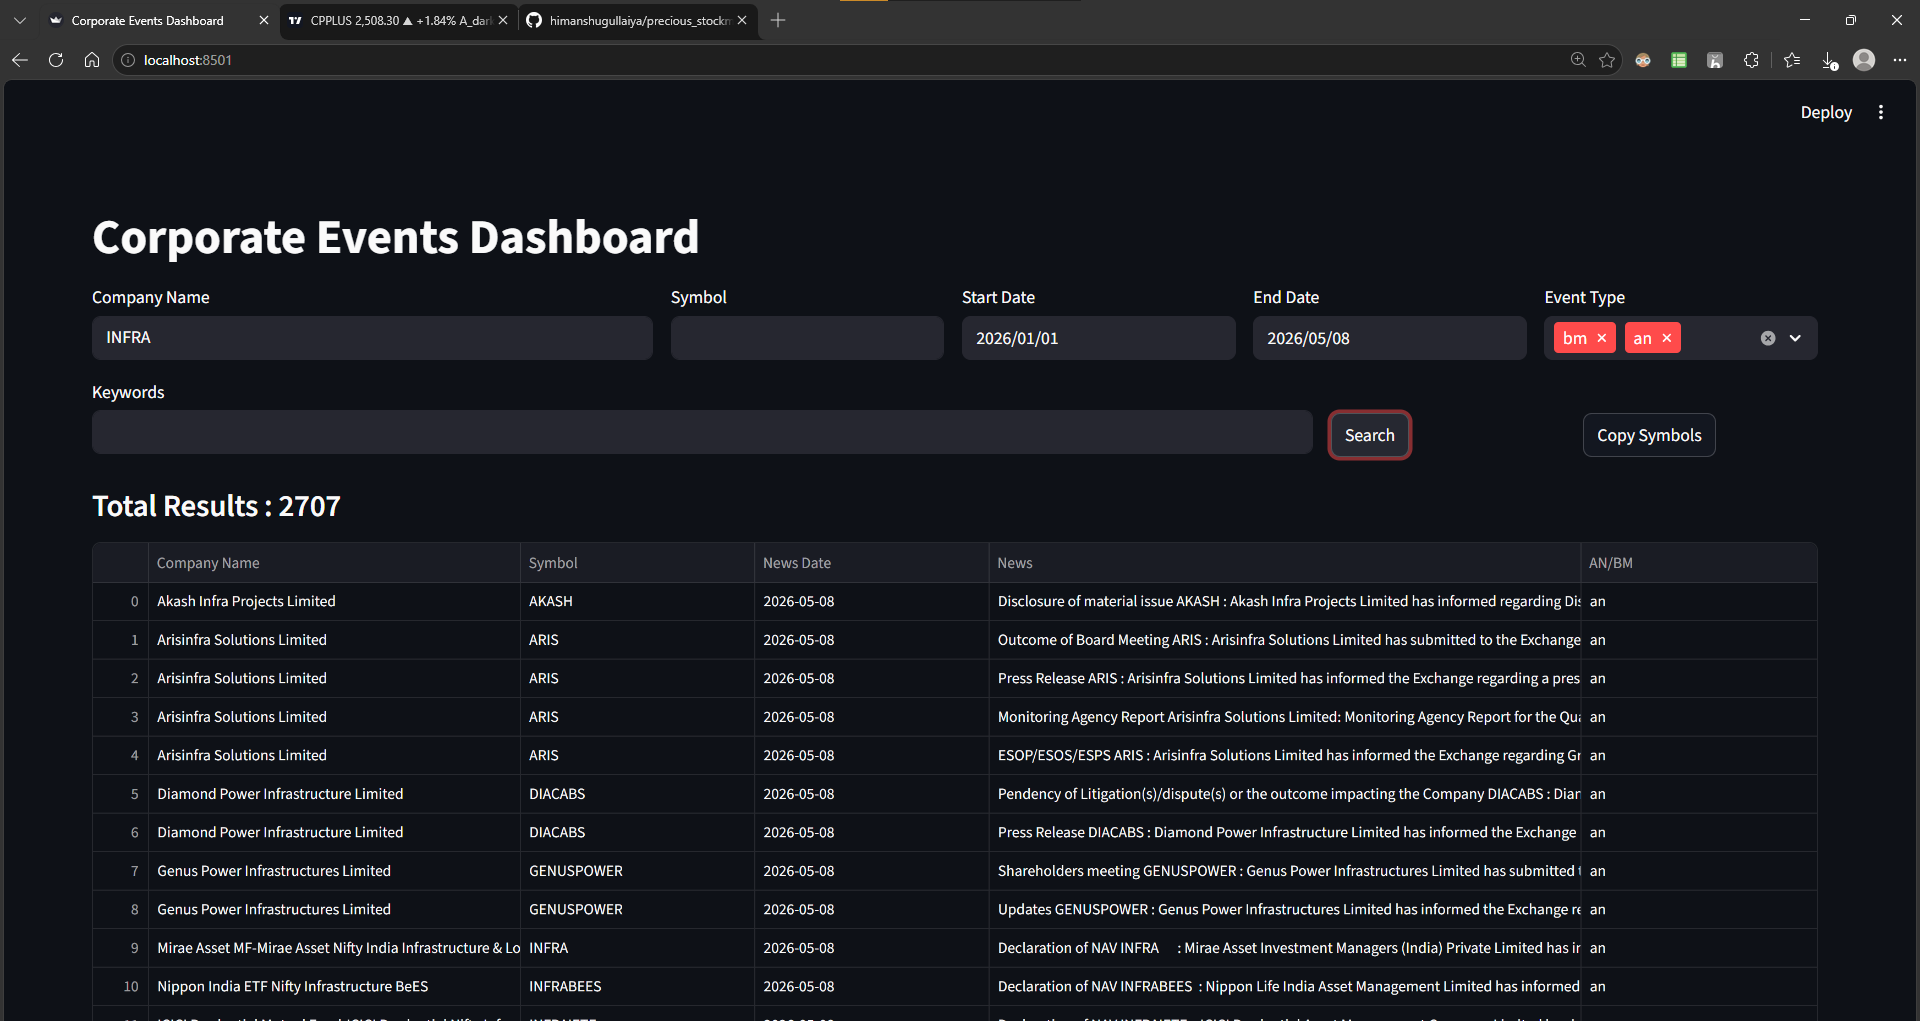
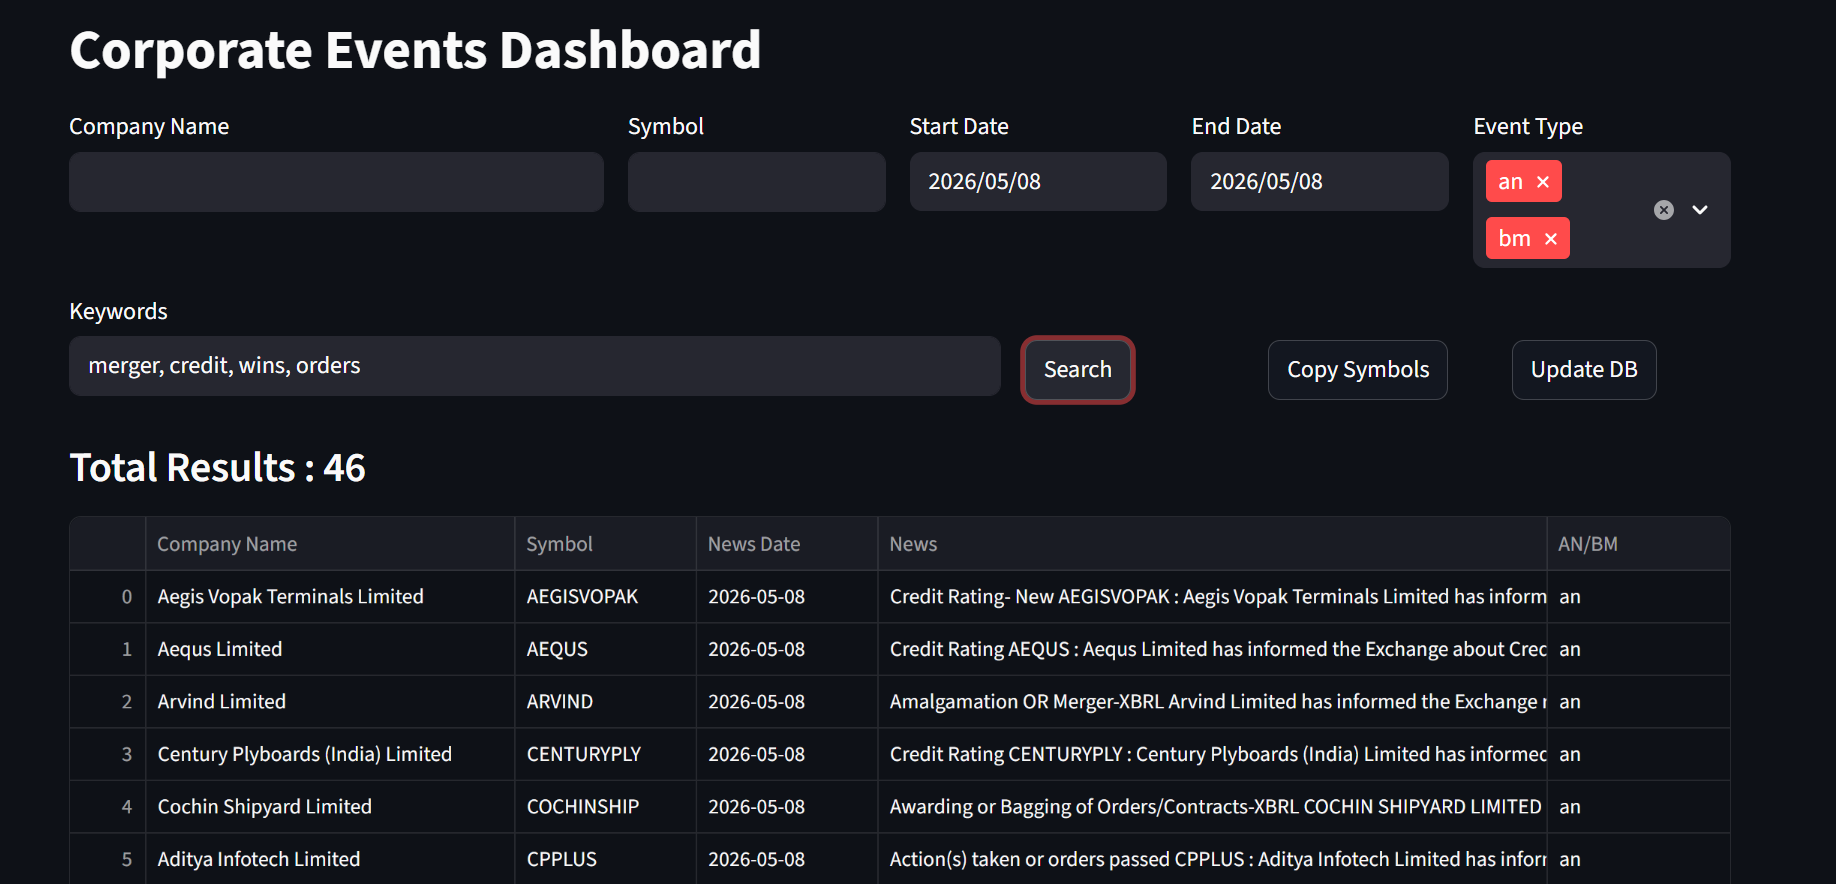
updated image and readme

diff --git a/Scripts/Frontend.py b/Scripts/Frontend.py
@@ -2,6 +2,7 @@ import streamlit as st
 import pandas as pd
 import psycopg2
 import pyperclip
+import subprocess
 import time
 from datetime import datetime
 
@@ -12,6 +13,42 @@ st.set_page_config(
     page_title='Corporate Events Dashboard',
     layout='wide'
 )
+
+
+#...........CUSTOM CSS...........#
+
+st.markdown("""
+
+<style>
+
+h1 {
+    font-size: 2.3rem !important;
+}
+
+label {
+    font-size: 1.05rem !important;
+    font-weight: 600 !important;
+}
+
+.stTextInput input {
+    font-size: 1rem !important;
+}
+
+.stDateInput input {
+    font-size: 1rem !important;
+}
+
+.stMultiSelect div {
+    font-size: 1rem !important;
+}
+
+button {
+    font-size: 1rem !important;
+}
+
+</style>
+
+""", unsafe_allow_html=True)
 
 
 #...........DB CONNECTION...........#
@@ -98,7 +135,9 @@ with col5:
 
 #...........SECOND ROW...........#
 
-col6, col7, col8 = st.columns([5, 1, 1])
+col6, col7, col8, col9 = st.columns(
+    [4, 1, 1, 1]
+)
 
 
 with col6:
@@ -112,20 +151,30 @@ with col6:
 with col7:
 
     st.write('')
-
     st.write('')
 
-    search_button = st.button('Search')
+    search_button = st.button(
+        'Search'
+    )
 
 
 with col8:
 
     st.write('')
-
     st.write('')
 
     copy_button = st.button(
         'Copy Symbols'
+    )
+
+
+with col9:
+
+    st.write('')
+    st.write('')
+
+    update_button = st.button(
+        'Update DB'
     )
 
 
@@ -290,6 +339,35 @@ if copy_button:
 
     success_box = st.success(
         'Symbols copied to clipboard'
+    )
+
+    time.sleep(3)
+
+    success_box.empty()
+
+
+#...........UPDATE DATABASE...........#
+
+if update_button:
+
+    update_box = st.info(
+        'Updating Database...'
+    )
+
+    subprocess.run([
+        'python',
+        'download_parse_update.py'
+    ])
+
+    subprocess.run([
+        'python',
+        'corporate_events_db.py'
+    ])
+
+    update_box.empty()
+
+    success_box = st.success(
+        'Database Updated Successfully'
     )
 
     time.sleep(3)

diff --git a/readme.md b/readme.md
@@ -1,113 +1,52 @@
 # NSE Corporate Events Intelligence Dashboard
 
-![Dashboard](Working%20Images/Image%201.png)
-
-![Filtering](Working%20Images/Image%202.png)
-
----
-
-# The Core Insight
-
 > **Financial media reports what companies tell journalists. This system captures what companies tell SEBI.**
 
-Exchange filings are the primary source. Media coverage is the echo.
+---
 
-By the time a stock move gets covered in financial news, the setup is already priced in. The real edge lies in tracking corporate announcements directly at the source — order wins, joint ventures, capacity expansions, institutional activity — before the narrative reaches the broader market.
+## Result: JAINREC — 35% in 8 Days
 
-This is the gap this project was built to fill.
+![JAINREC Case Study — Filing flagged on 2026-04-28, stock moved 35% in 8 days](Working%20Images/Image%201.png)
+
+Shareholders meeting filing flagged on **2026-04-28**. Stock moved **35% in the following 8 days** — starting exactly from that date. The filing was visible here before the broader market reacted.
 
 ---
 
-# About The Project
+## Today's Dashboard — Live Filings
 
-NSE Corporate Events Intelligence Dashboard is a Python + PostgreSQL + Streamlit based market intelligence system that parses NSE/SEBI exchange filings directly and makes them searchable, filterable, and actionable.
+![Today's Results — 46 filings including mergers, order wins, credit ratings](Working%20Images/Image%202.png)
 
-The system detects early-stage corporate developments including:
-
-- Order wins
-- Strategic tie-ups and joint ventures
-- Mergers and acquisitions
-- Government contract developments
-- Capacity expansion announcements
-- Investor and institutional activity
-- Business expansion signals
-
-The goal is to identify meaningful corporate catalysts **before the broader market fully reacts** — and use them to assess whether a price move has a real narrative backing it, or whether it is likely to fade.
+Search across all NSE filings by keyword — mergers, order wins, credit ratings, acquisitions — filtered by date and event type. **46 results on a single day.**
 
 ---
 
-# Why This Matters for Trading
+## What It Does
 
-A breakout without a narrative is noise. A breakout with a narrative is a setup worth studying.
+Parses NSE/SEBI corporate filings directly — before media covers them. Tracks order wins, JVs, mergers, acquisitions, capacity expansions, institutional activity.
 
-This system serves two purposes:
-
-**1. Pre-trade probability filter**
-Before entering a setup, check whether there is a corporate filing backing the move. If volumes are building and there is a SEBI-disclosed event behind it — order win, JV, capacity addition — the probability that the move sustains increases significantly. Buyers are not absorbing liquidity blindly; there is a reason.
-
-**2. Past move study engine**
-Understanding how major stock moves develop requires studying the full arc: filing → narrative build → price action execution. This system makes that research fast and structured — search any company, filter by event type or date, and reconstruct exactly how the catalyst unfolded.
+Two use cases: **pre-trade catalyst check** and **studying how past moves built from filing → narrative → price action.**
 
 ---
 
-# Features
+## Tech Stack
 
-## Backend
-- Automated NSE corporate event parsing
-- ZIP download and extraction pipeline
-- PostgreSQL database storage
-- Duplicate removal system
-- Historical event collection
-
-## Frontend
-- Company name and symbol search
-- Keyword filtering
-- Date range filtering
-- Event type filtering
-- One-click symbol copy to clipboard
-- CSV export for further analysis
+Python · PostgreSQL · Streamlit · Pandas · psycopg2
 
 ---
 
-# Tech Stack
-
-- Python
-- PostgreSQL
-- Streamlit
-- Pandas
-- psycopg2
-
----
-
-# Run Locally
-
-## Install dependencies
+## Run Locally
 
 ```bash
 pip install -r requirements.txt
-```
-
-## Start frontend
-
-```bash
 streamlit run Frontend.py
 ```
 
 ---
 
-# Roadmap
+## Roadmap
 
-- LLM-based event scoring and importance ranking
-- Automatic summarization of filing content
-- Noise filtering — remove low-value routine disclosures
-- Real-time filing updates
-- TradingView chart integration
-- Event backtesting — map filings to subsequent price moves
-- Sector-wise event clustering
-- Catalyst ranking engine by historical price impact
+LLM event scoring · filing summarization · noise filtering · real-time updates · TradingView integration · event backtesting
 
 ---
 
-# Author
-
-Built out of a genuine gap identified after years of studying Indian equity markets. Financial news covers what companies want the public to know. Exchange filings reveal what companies are required to disclose. This system works at that second layer.
+[GitHub](https://github.com/himanshugullaiya/precious_stockmarket_news_db)
